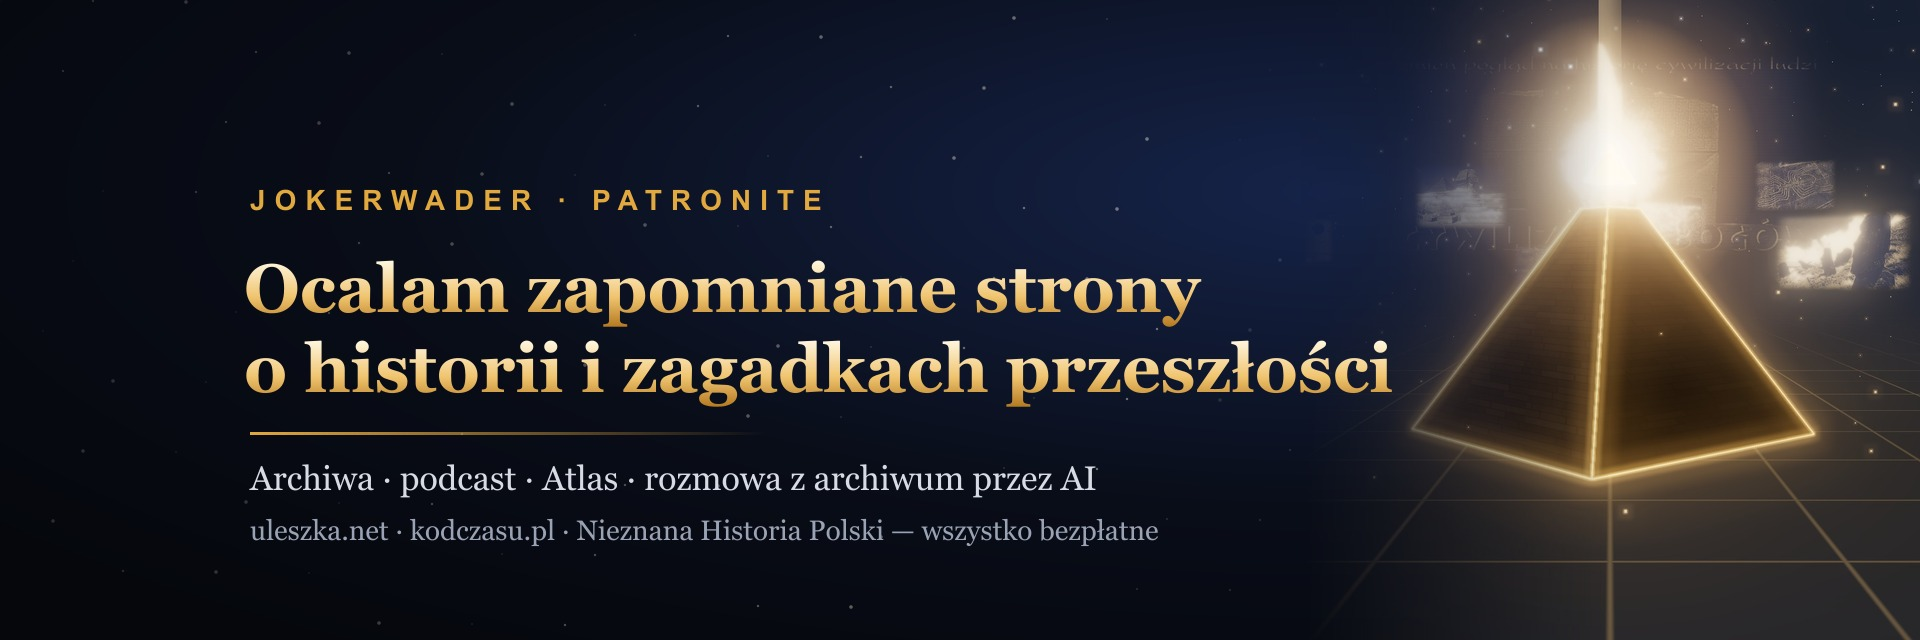
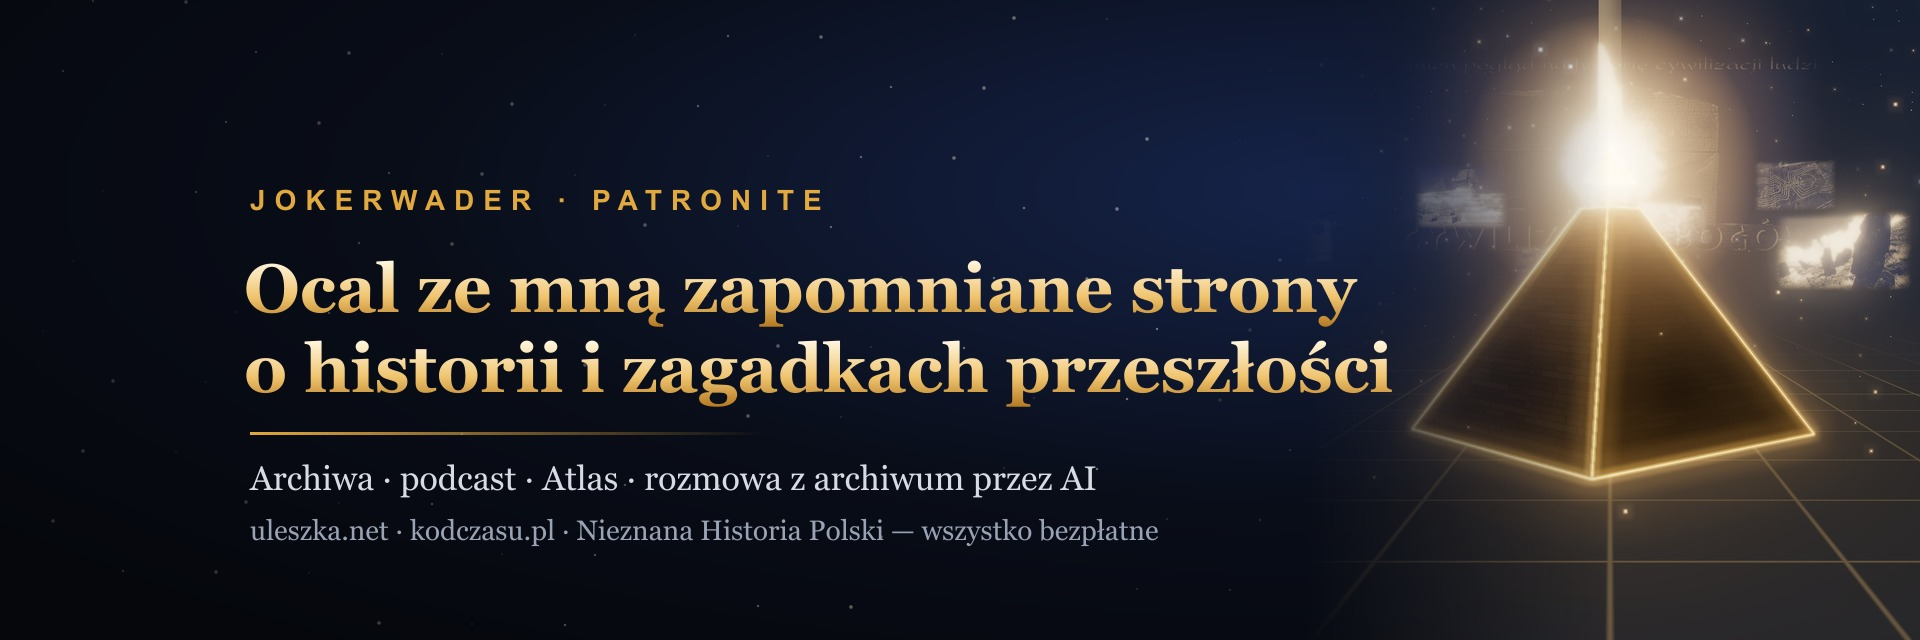
Strona główna: dłuższy wstęp (podcast, atlas, nowe odkrycia) i linijka „W hołdzie”; okładka Patronite „Ocal ze mną…”

Changed region(s): [[0.1875, 0.4062, 0.7188, 0.5312]]

diff --git a/docs/index.html b/docs/index.html
@@ -105,6 +105,8 @@
   .cytat-autor { margin: 0 0 26px; color: #9aa3b5; font-size: 14px; letter-spacing: .3px; }
   .cytat-autor a { color: #c9cfdb; }
   .hero p.lead { font-size: clamp(17px, 2vw, 20px); color: #d7dbe4; margin: 0 0 18px; }
+  .hero .hold-leszek { margin: -6px 0 18px; font: italic 16px Georgia, serif; color: #e8b04b; letter-spacing: .3px; }
+  .hero .hold-leszek::before { content: ""; display: inline-block; width: 28px; height: 1px; margin-right: 10px; vertical-align: middle; background: #e8b04b; }
   .hero em { color: #fff; font-style: normal; font-weight: 600; }
   .pytanie-autora {
     min-height: 1.6em; margin: 0 0 30px; font: 500 clamp(16px, 1.8vw, 19px)/1.5 ui-monospace, "Cascadia Code", Consolas, monospace; color: #f0c46f;
@@ -497,7 +499,8 @@
     <p class="eyebrow wejscie">„Uwierz we własny rozum” · 2004–2007</p>
     <h1 class="wejscie">Nadchodzi przeszłość</h1>
     <p class="cytat-autor wejscie">— Leszek Klimek, <a href="czytelnia/cybog-wstepcb.html">„Wstęp”</a> do Cywilizacji Bogów</p>
-    <p class="lead wejscie">Strona, która <em>otworzyła oczy wielu ludziom</em> i zadawała pytania, których nikt wcześniej nie zadawał. Dziś możesz z nią porozmawiać, przez <em>Claude</em> albo <em>ChatGPT</em>.</p>
+    <p class="lead wejscie">Strona, która <em>otworzyła oczy wielu ludziom</em> i zadawała pytania, których nikt wcześniej nie zadawał. Dziś możesz z nią porozmawiać przez <em>Claude</em> albo <em>ChatGPT</em>, słuchać jej w podcaście, oglądać opisane miejsca w atlasie i sprawdzać, co odkryto od tamtej pory.</p>
+    <p class="hold-leszek wejscie">W hołdzie śp. Leszkowi Wiktorowi Klimkowi</p>
     <p class="pytanie-autora wejscie" aria-live="off"><span id="pytanie-tekst">Kto naprawdę zbudował piramidy?</span><span class="kursor" aria-hidden="true"></span></p>
     <div class="przyciski wejscie">
       <a class="btn btn-glowny" href="#jak-zaczac">Zacznij rozmowę →</a>

diff --git a/scripts/grafika-patronite.ts b/scripts/grafika-patronite.ts
@@ -129,7 +129,7 @@ for (const p of PROGI) {
     <linearGradient id="k" x1="0" y1="0" x2="1" y2="0"><stop offset="0" stop-color="#e2a93f"/><stop offset="1" stop-color="#e2a93f" stop-opacity="0"/></linearGradient></defs>
     ${gw}
     <text x="250" y="210" font-family="Arial, sans-serif" font-weight="700" font-size="28" letter-spacing="9" fill="#e2a93f">JOKERWADER · PATRONITE</text>
-    <text x="244" y="312" font-family="Georgia, serif" font-weight="700" font-size="68" fill="url(#z)">Ocalam zapomniane strony</text>
+    <text x="244" y="312" font-family="Georgia, serif" font-weight="700" font-size="68" fill="url(#z)">Ocal ze mną zapomniane strony</text>
     <text x="244" y="392" font-family="Georgia, serif" font-weight="700" font-size="68" fill="url(#z)">o historii i zagadkach przeszłości</text>
     <rect x="250" y="432" width="520" height="3" fill="url(#k)"/>
     <text x="250" y="490" font-family="Georgia, serif" font-size="34" fill="#d7dbe4">Archiwa · podcast · Atlas · rozmowa z archiwum przez AI</text>
